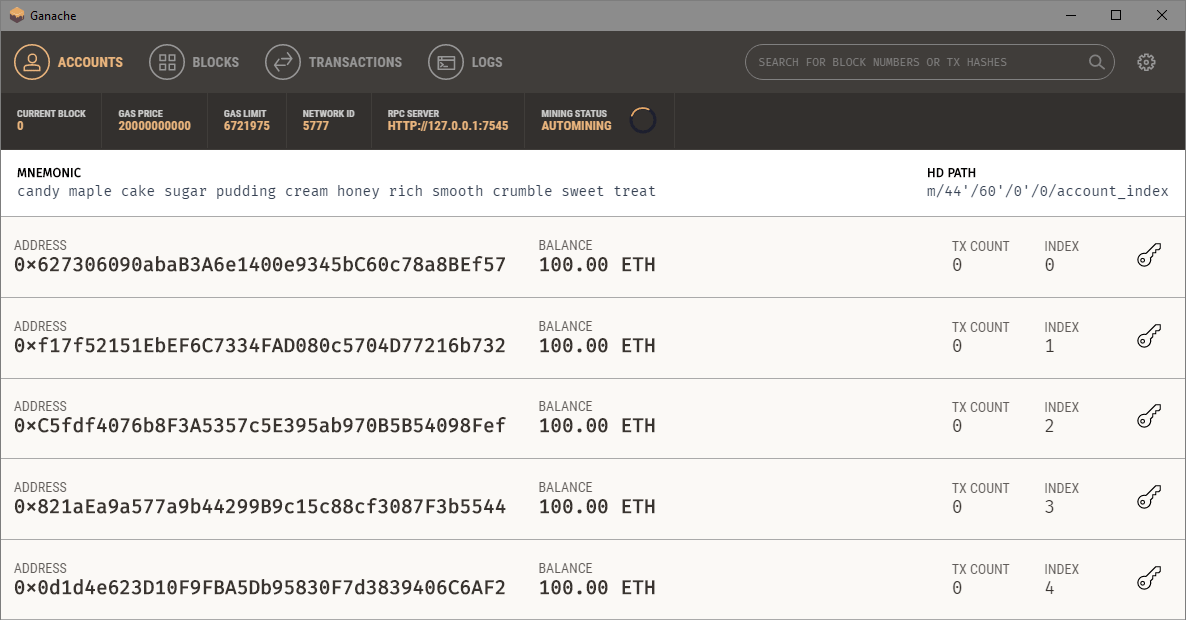
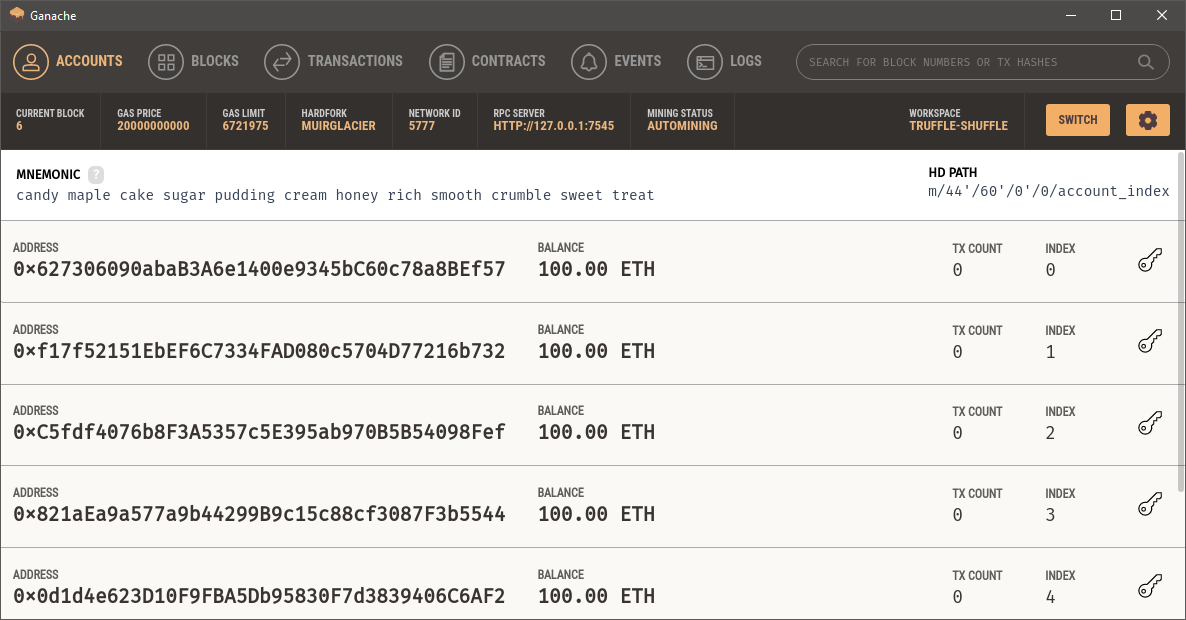
docs(truffle): update quickstart w/ latest Ganache UI

diff --git a/src/docs/truffle/quickstart.md b/src/docs/truffle/quickstart.md
@@ -315,81 +315,96 @@ The only extra step, aside from running Ganache, is that it requires editing the
    truffle migrate
    ```
 
-   You will see the following output
+   You will see the following output:
 
    ```
+   Compiling your contracts...
+   ===========================
+   > Compiling ./contracts/ConvertLib.sol
+   > Compiling ./contracts/MetaCoin.sol
+   > Compiling ./contracts/Migrations.sol
+   > Artifacts written to /home/david/work/MetaCoin/build/contracts
+   > Compiled successfully using:
+      - solc: 0.5.16+commit.9c3226ce.Emscripten.clang
+
    Starting migrations...
    ======================
-   > Network name:    'develop'
-   > Network id:      4447
-   > Block gas limit: 6721975
+   > Network name:    'development'
+   > Network id:      5777
+   > Block gas limit: 6721975 (0x6691b7)
 
    1_initial_migration.js
    ======================
 
       Deploying 'Migrations'
       ----------------------
-      > transaction hash:    0x3fd222279dad48583a3320decd0a2d12e82e728ba9a0f19bdaaff98c72a030a2
+      > transaction hash:    0x3eef05e35ce694c0b7112cc22ba462b9cc0563abc2cc444ee9683b6d89865e3c
       > Blocks: 0            Seconds: 0
-      > contract address:    0xa0AdaB6E829C818d50c75F17CFCc2e15bfd55a63
-      > account:             0x627306090abab3a6e1400e9345bc60c78a8bef57
-      > balance:             99.99445076
-      > gas used:            277462
+      > contract address:    0x8CdaF0CD259887258Bc13a92C0a6dA92698644C0
+      > block number:        1
+      > block timestamp:     1587421933
+      > account:             0x627306090abaB3A6e1400e9345bC60c78a8BEf57
+      > balance:             99.9967165
+      > gas used:            164175 (0x2814f)
       > gas price:           20 gwei
       > value sent:          0 ETH
-      > total cost:          0.00554924 ETH
+      > total cost:          0.0032835 ETH
 
       > Saving migration to chain.
       > Saving artifacts
       -------------------------------------
-      > Total cost:          0.00554924 ETH
+      > Total cost:           0.0032835 ETH
 
    2_deploy_contracts.js
    =====================
 
       Deploying 'ConvertLib'
       ----------------------
-      > transaction hash:    0x97e8168f1c05fc40dd8ffc529b9a2bf45cc7c55b07b6b9a5a22173235ee247b6
+      > transaction hash:    0x23de020bafa41e30615b1d775d2fa9604e876415408e012d1f0faf79eed3a32f
       > Blocks: 0            Seconds: 0
-      > contract address:    0xfb39FeaeF3ac3fd46e2123768e559BCe6bD638d6
-      > account:             0x627306090abab3a6e1400e9345bc60c78a8bef57
-      > balance:             99.9914458
-      > gas used:            108240
+      > contract address:    0x345cA3e014Aaf5dcA488057592ee47305D9B3e10
+      > block number:        3
+      > block timestamp:     1587421933
+      > account:             0x627306090abaB3A6e1400e9345bC60c78a8BEf57
+      > balance:             99.99396028
+      > gas used:            95470 (0x174ee)
       > gas price:           20 gwei
       > value sent:          0 ETH
-      > total cost:          0.0021648 ETH
+      > total cost:          0.0019094 ETH
 
       Linking
       -------
-      * Contract: MetaCoin <--> Library: ConvertLib (at address: 0xfb39FeaeF3ac3fd46e2123768e559BCe6bD638d6)
+      * Contract: MetaCoin <--> Library: ConvertLib (at address: 0x345cA3e014Aaf5dcA488057592ee47305D9B3e10)
 
       Deploying 'MetaCoin'
       --------------------
-      > transaction hash:    0xee4994097c10e7314cc83adf899d67f51f22e08b920e95b6d3f75c5eb498bde4
+      > transaction hash:    0x0cc20353422c4d435f72e8e7850f8178f43bf8d00c8c0d09cc8e0ccdfa81b799
       > Blocks: 0            Seconds: 0
-      > contract address:    0x6891Ac4E2EF3dA9bc88C96fEDbC9eA4d6D88F768
-      > account:             0x627306090abab3a6e1400e9345bc60c78a8bef57
-      > balance:             99.98449716
-      > gas used:            347432
+      > contract address:    0xf25186B5081Ff5cE73482AD761DB0eB0d25abfBF
+      > block number:        4
+      > block timestamp:     1587421934
+      > account:             0x627306090abaB3A6e1400e9345bC60c78a8BEf57
+      > balance:             99.98822922
+      > gas used:            286553 (0x45f59)
       > gas price:           20 gwei
       > value sent:          0 ETH
-      > total cost:          0.00694864 ETH
+      > total cost:          0.00573106 ETH
 
       > Saving migration to chain.
       > Saving artifacts
       -------------------------------------
-      > Total cost:          0.00911344 ETH
+      > Total cost:          0.00764046 ETH
 
    Summary
    =======
    > Total deployments:   3
-   > Final cost:          0.01466268 ETH
+   > Final cost:          0.01092396 ETH
    ```
 
    This shows the transaction IDs and addresses of your deployed contracts. It also includes a cost summary and real-time status updates.
 
    <p class="alert alert-info">
-     <strong>Note</strong>: Your transaction IDs and contract addresses will be different from the above.
+     <strong>Note</strong>: Your transaction IDs and contract addresses may be different from the above.
    </p>
 
 1. In Ganache, click the "Transactions" button to see that the transactions have been processed.
